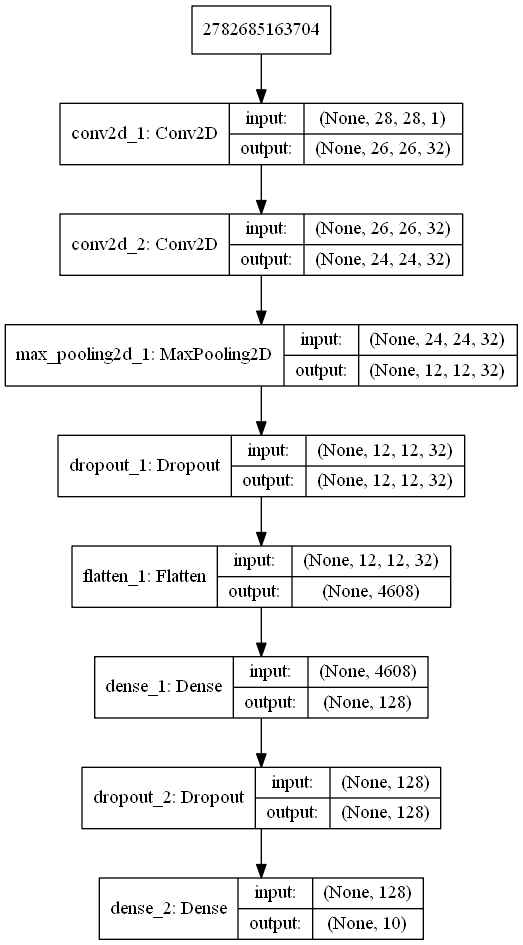
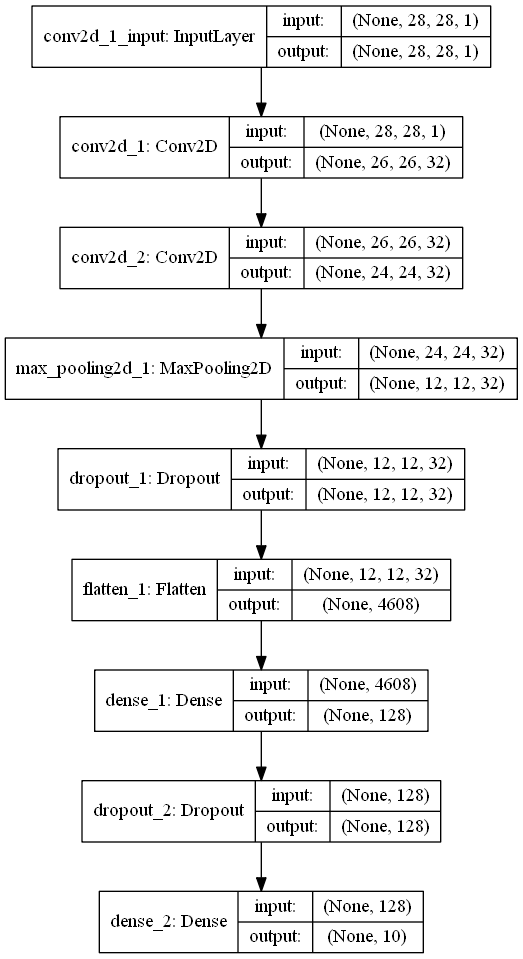
update

diff --git a/train - BGAN.py b/train - BGAN.py
@@ -1,4 +1,5 @@
-# -*- coding: utf-8 -*-
+# coding: utf-8
+#!/usr/bin/python
 """bgan.ipynb
 
 Automatically generated by Colaboratory.
@@ -6,16 +7,16 @@ Automatically generated by Colaboratory.
 Original file is located at
     https://colab.research.google.com/drive/1Je2KiZODGvrKTValBPZKhac5k7UN3Q4g
 """
-
+'''
 !pwd
 !rm -rf "images"
 !mkdir "images"
+'''
 
-# coding: utf-8
-#!/usr/bin/python
+
 import numpy as np
 from keras.callbacks import TensorBoard
-from keras.datasets import mnist
+#from keras.datasets import mnist
 from keras.layers import Dense #导入全连接神经层
 
 from keras.layers import Dropout #导入正则化，Dropout将在训练过程中每次更新参数时按一定概率(rate)随机断开输入神经元
@@ -47,12 +48,19 @@ from keras.callbacks import ModelCheckpoint #训练途中自动保存模型
 from keras.callbacks import EarlyStopping
 import os
 from keras.utils import plot_model
-import pydot_ng as pydot
+
 import os
 import keras.backend as K
 from keras.optimizers import Adam
 
-(x_train,y_train), (x_test,y_test) = mnist.load_data()
+#(x_train,y_train), (x_test,y_test) = mnist.load_data()
+f=np.load('mnist.npz')
+print(type(f),f)
+x_train = f['x_train']
+y_train = f['y_train']
+x_test = f['x_test']
+y_test = f['y_test']
+
 print('x_train',x_train.shape)
 print('y_train',y_train.shape)
 print('x_test',x_test.shape)

diff --git a/train - GAN.py b/train - GAN.py
@@ -34,7 +34,6 @@ from keras.callbacks import ModelCheckpoint #训练途中自动保存模型
 from keras.callbacks import EarlyStopping
 import os
 from keras.utils import plot_model
-import pydot_ng as pydot
 import os
 from keras.optimizers import Adam
 
@@ -74,23 +73,6 @@ print('y_train',y_train.shape)
 print(y_train[0:5])
 
 
-#定义残差网络块
-def res_block(x,kernel_size):
-    #1*1的卷积用来降维/升维，strides=(2,2)的作用为改变shape，使其与pool后的shape一致
-    b_x=Conv2D(kernel_size,(1,1),strides=(2,2),kernel_initializer='he_uniform')(x)
-    
-    x=Conv2D(kernel_size,(3,3),padding="same",kernel_initializer='he_uniform')(x)
-    x=BatchNormalization()(x)
-    x=LeakyReLU(alpha=0.2)(x)
-    
-    x=Conv2D(kernel_size,(3,3),padding="same",kernel_initializer='he_uniform')(x)    
-    x=BatchNormalization()(x)
-     
-    x=MaxPooling2D(2,2)(x)
-    
-    x=Add()([b_x,x])
-    x=LeakyReLU(alpha=0.2)(x)
-    return x
 
 #输入为图片，输出为[0,1]，表示真假
 def discriminator(inputs = Input(shape=(28,28,1))): 

diff --git a/模型结构.py b/模型结构.py
@@ -3,7 +3,6 @@
 
 from keras.models import load_model 
 from keras.utils import plot_model
-import pydot_ng as pydot
 import os
 
 
@@ -16,6 +15,5 @@ model = load_model('model.h5')
 print(model.summary())
 
 
-#pydot.Dot.create(pydot.Dot())
 plot_model(model, to_file='模型结构.png',show_shapes=True)
 

diff --git a/train-序贯式模型.py b/train-序贯式模型.py
@@ -33,7 +33,7 @@ from keras.callbacks import ReduceLROnPlateau #动态调整学习率
 
 from keras.callbacks import ModelCheckpoint #训练途中自动保存模型
 import os
-
+from sklearn.decomposition import PCA
 
 f=np.load('mnist.npz')
 print(type(f),f)

diff --git a/train - GAN2.py b/train - GAN2.py
@@ -35,7 +35,6 @@ from keras.callbacks import ModelCheckpoint #训练途中自动保存模型
 from keras.callbacks import EarlyStopping
 import os
 from keras.utils import plot_model
-import pydot_ng as pydot
 import os
 
 

diff --git a/train - 残差网络.py b/train - 残差网络.py
@@ -35,7 +35,6 @@ from keras.callbacks import ModelCheckpoint #训练途中自动保存模型
 from keras.callbacks import EarlyStopping
 import os
 from keras.utils import plot_model
-import pydot_ng as pydot
 import os
 
 
